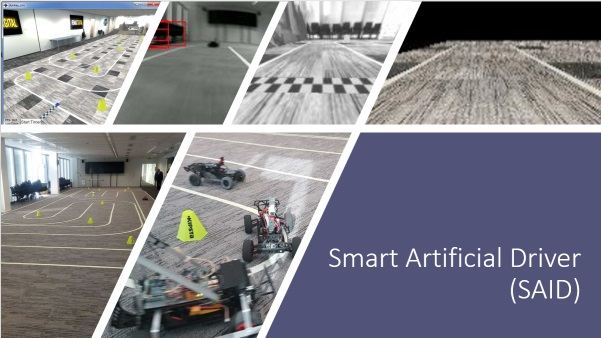
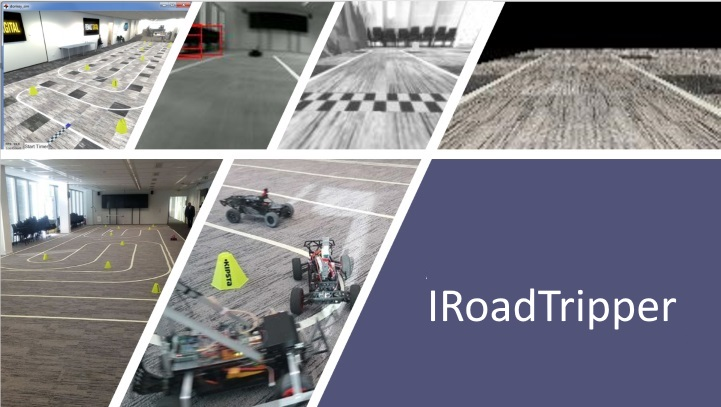
First Publishing
First Publishing

diff --git a/index.html b/index.html
@@ -1,4 +1,131 @@
 <html>  
+  <div width=721>
   <img src=said_presentation.jpg>
+
+  <h1>
+      Programming and Racing Autonomous Vehicles for fun!
+  </h1>
+
+  If you are looking for a great project to learn python programming, Deep learning and some raspberry pi technologies, then this site is for you .
   
+  <br>
+  You will learn how to build an an autonomous  car (1/12 scale), how to connect a raspbeery pi to the car  and to install necessary software to have the car drive autonomously on a circuit. 
+  <br>
+  With such car, it is even possible to participate in some very fun race events where multiple autonomous cars race against each others..
+
+  <br>
+
+  <h1>
+      Let's build a smart car
+  </h1>
+  First step is really to choose a RC car from the numbers of available brands and models :   <br>
+  The below information may help you find your own ideal RC Car for your autonomous project : 
+
+  <h2> How to Find a good rc car </h2>
+    <h3> Choose a scale : 1/14 , 1/12 or 1/10 : </h3>
+         1/14 : will be the smallest, and it is possible , but tricky to stick the required electronic into a 1/14 car.  <br>
+         1/12 : probably the perfect compromise between size of the car and available space on the car to integrate the required electronics. But there are not so many of these cars, as the most used scale is 1/10  <br>
+         1/10 : Most common scale, with a lot of space to have a tidy electronic set up , and a lot of power to race .  <br>
+
+    <h3> Select a transmission : </h3>
+         4WD will help to stick to the road, where as 2WD might be faster ...  <br>
+    <h3> Servo and ESC: </h3>
+
+          We use a PCA9685 pwm provider board to send PWM signals to the ESC and to the Servos, and this component is only compatible with servos and esc devices having 3 wires only : Ground/VCC/Signal. Any servo that has more than 3 wires will not be compatible and will have to be replaced.   <br><br>
+<br>
+          The servo and ESC that is provided as part of the RC car will probably have to be thrown away, and replaced by a new servo and new ESC device<br>
+           ==> you will need to buy a compatible steering servo and a compatible ESC for the car.  <br>
+<br>
+          Any standard RC ESC will be ok to replace the one provided with the car
+<br>
+         for the servo, it is another story : 
+            first, you want to find a 3 wires servo that has exactly the same dimensions as the servo that is provided with the car. 
+            you need to ensure that the force of the Servo is enough and that the number of teeth matches the original servo. 
+              the number of teeth is noted as "25T" in the description.
+<br>
+    <h3> battery power </h3>
+         RC Cars are sold with a battery : and the ESC that you will have purchased may not have the same connector as your stock battery : you will therefore need to purchase a battery adapater as well , to allow you to connect the battery to the new ESC.
+
+    <h3> well known rc car brands </h3>
+         these are some RC Car Brands : 
+          WLToys<br>
+          Tamya<br>
+          Traxxas <br>
+
+  <h2>Recommended car : Wltoys 12428b</h3>
+    I have selected the Wltoys 12428b , as it has a nice look, has a lot of space within the cokpit, has a high speed, but still is 4WD. Also, all the car is maintained with a number of small screws which are very convenient to fix the additional parts that are needed for an autonomous car. 
+    
+    If you want to ensure that you will have no surprises, and you want to quickly start the race, i would recommend that you go with that RC car. 
+
+    <img src=said_rc_car_12428b.png><br>
+
+    In order to convert the car into an autonomous driving car , you will need the below : <br>
+    <br> <br>
+    <img src=said_rc_car_bom.png>
+    <br> <br>
+    <b>The Car </b> : carefully select the RC car you want, and in doubt, follow my recommandation.
+    <br> <br>
+    <b>The Board </b> :  Raspberry Pi is a good choice : autonomous car requires high CPU, and even if a Raspberry 3B+ would work, a raspberry pi 4 with 4GB is highly recommended.
+    <br> <br>
+    <b>The Remote Controller </b> :  Multiple Remote controllers are compatible, PS3, Wiiu Pro Controller, these old controllers have the advantage of being very easy to setup, whereas recent controllers will require to install more components on the raspberry pi ( i.e. pygame) i love the Wiiu Pro Controller, some geek shops can have some if yuou ask the vendor...
+    <br>    <br>
+    <b>The PWM generator </b> :  The steering and the throttle of the car will have to be controlled via a PWM signal.  Raspberry pi devices are great devices, but when it is about real time and pwm signal generation they are not good enough. This is why it is needed to have a dedicated PWM generator the best choice is to use the very cheap PCA9685 board, which is able to generate accurate and stable pwm signals and can communicate easily with the Raspberry pi via i2c communidcation. Some other hobbyist prefers to use arduino and to code themselves the PWM generator code : it is an option, but this will require much more time and money than the PCA9685 !
+    <br> <br>
+    <b>The Steering Servo </b> :this is the hard part to purchase : it has to fit the car easily, and have the same characteristics as the original one. First of all , the servo will need to have only 3 wires : black, Red and orange or yellow. Any Servo with more than 3 wires will not Work . 
+
+    You sshould check the web sites where you would purchase replacement parts for your car, they may give some information on the size,  the number of teeth ( i.e. 25T ) , the speed and the force of the original Servo. Then you will have to search on internet for a compatible Servo . If you selected the Wltoys 12428 car, then it is easy, the servo you need it the "JX PDI 2506 MG" it will fit exactly in the car, and replace the original one gracefully.
+    <br> <br>
+    <b> 5V Powerbank </b> the Powerbank will be used to power the Raspberry and the Pwm generator, independantly of the main electric circuit , to prevent any electric disturbance on the cpu, while racing.
+    be sure to select a Powerbank that has at least 2.1 A output. Most powerbanks havinf 2.1 A that i tried worked perfectly.
+
+    <br> <br>
+    <b> Long camera  cable </b> Once you will want to fix the board and camera to the car ,  you may discover that the ruban cable between the 2 is not long enough ...  such cable is not that expensive, and i believe is finally needed.
+
+    <br> <br>
+    <b> Camera </b> Camera for Raspberry pi must be compatible with Raspberry Pi 2 camera and raspicam api. Fisheye camera is usually used for cars, as it allows to have a large fireld of view. Also, there are Infrared cameras that are designed to run in the dark, and standard cameras. I/R cameras do not have a IR filter, which makes the image pinky... Some cameras have an additional channel that allows to physically apply the ir filter or remove it depending on the requirement. For standard usage, the best would be to avoid I/R cameras.
+
+    <br> <br>
+    <b> Oled Display </b> It is possible to add an Oled Display to display information at runtime ( Ip address of the robot, and some other values) . this is an optional component...
+
+    <br> <br>
+    <b> Speed Sensors </b>  Speed Sensors are required if you plan to allow the car to brake before curves. That is a critical advantage, when racing...
+    The principle of Speed Sensors is to provide speed and direction. The speed sensor i use is an Incremental encoders with main optical sensor on each wheek that will provide the speed and a phased optical sensor that will provide the direction of the car. the optical sensor has only 4 steps per rev, to minimize the overhead of cpu while the car is at high speed. 3 optical sensors are needed to be able to have speed on each wheel and direction. 
+
+    <br> <br>
+    <b> ESC Device </b> it will probably not be possible to reuse the Motor controller that is provided by default in the RC car, this is why it is necessary to purchase an standard RC CAR ESC device that can manage the speed of the motor, using a pwm signal ( that will be generated by the pwm generator).
+
+    <br> <br>
+    <b> Battery Connector </b> the battery that comes with the car may not have the same connector as the replacement ESC, this is why we need to purchase a cable to be able to connect the battery to the ESC easily.
+
+
+
+
+
+
+
+
+
+    <img src=said_rc_wiring.png>
+<br>
+    All the necessary 3D printed parts that are needed to convert the car into an autonomous car are available  <a href= https://www.thingiverse.com/thing:4199207> here  </a>:<br>
+<br><br>
+
+    <img src=said_rc_stl_camera.png><br>
+    <img src=said_rc_stl_cockpit.png><br>
+    <img src=said_rc_stl_speed_sensor.png><br>
+    <img src=said_rc_stl_roof.png><br>
+
+
+
+  <h1>
+      Now, put some software on top of it 
+  </h1>
+
+  <h1>
+      And train the brain ... 
+  </h1>
+
+
+  </div>
+
 </html>

diff --git a/README.md b/README.md
@@ -1,3 +1,2 @@
-# IRoadTripper
-Build an autonomous car and participate to fun Race events ! 
-
+# teinturman.github.io
+Smart Artificial Intelligence Driver (SAID)
